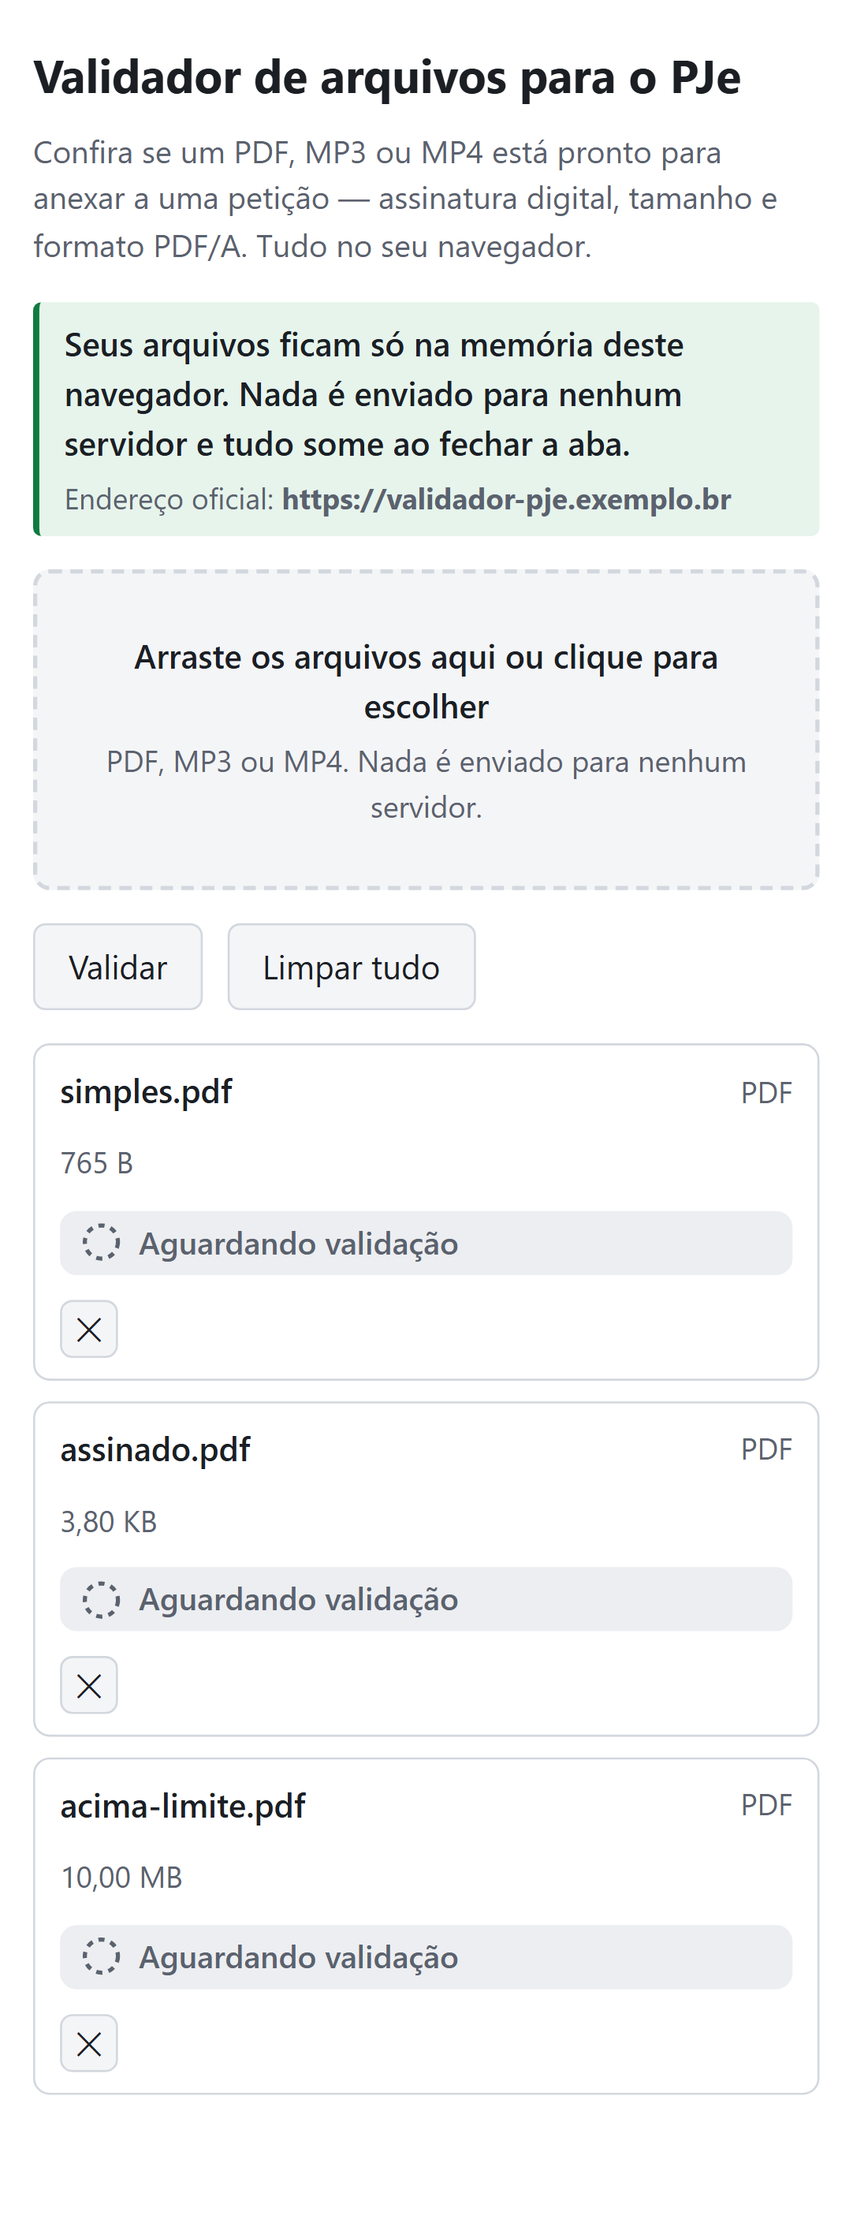
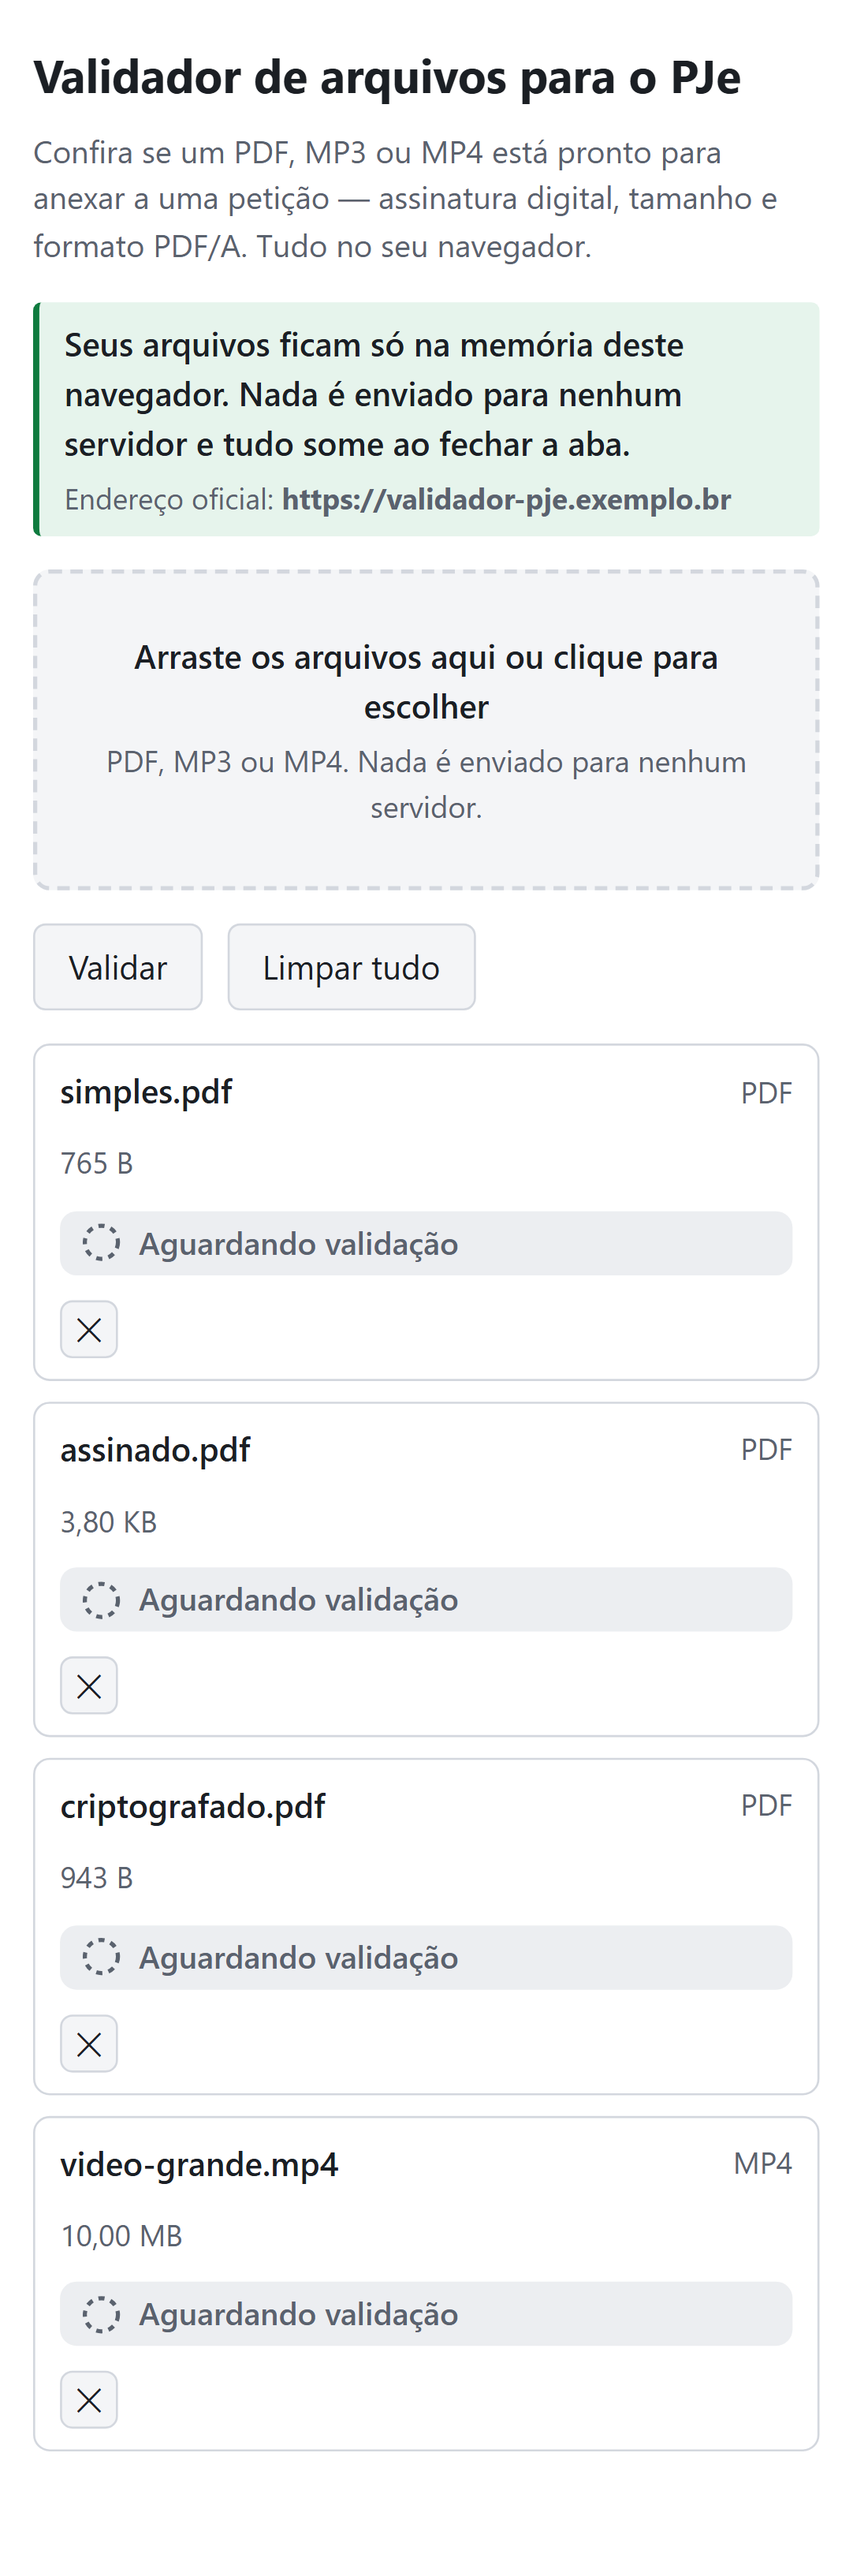
feat(fase2): e2e da correção + mídia sem correção automática
- correcao/ganchoE2E.ts: motor falso ativado só com ?e2e=1 (Playwright exercita
  o fluxo "corrigido" sem WASM); nunca em produção
- Regra 2: MP3/MP4 acima do limite -> correcaoDisponivel null, só orientação
  textual (decisão P2-1); PDF continua com COMPRIMIR_PDF
- tests/e2e/correcao.spec.ts: corrigido / correcao_falhou / nao_corrigivel /
  sem terceiros (5 testes x 4 projetos)
- evidencias.spec.ts: + screenshots corrigido e estados de falha
- 49 e2e passando; 20 screenshots em docs/evidencias/

diff --git a/tests/e2e/evidencias.spec.ts b/tests/e2e/evidencias.spec.ts
@@ -7,34 +7,55 @@ const fx = (n: string) => join(raiz, 'fixtures', n);
 const destino = (n: string) => join(raiz, 'docs', 'evidencias', n);
 
 /**
- * Captura os estados de linha alcançáveis na Fase 1 (aguardando, validando,
- * apto, inapto) em desktop/mobile × claro/escuro. Só fixtures sintéticas.
+ * Captura todos os estados de linha alcançáveis (spec §1.4), em
+ * desktop/mobile × claro/escuro. Só fixtures sintéticas.
  */
 test('screenshots dos estados da linha', async ({ page }, testInfo) => {
-  const sufixo = testInfo.project.name; // desktop-claro, mobile-escuro, ...
+  const sufixo = testInfo.project.name;
 
-  await page.goto('/');
+  await page.goto('/?e2e=1');
   await page.screenshot({ path: destino(`tela-inicial-${sufixo}.png`), fullPage: true });
 
   await page.getByLabel(/selecionar arquivos/i).setInputFiles([
     fx('simples.pdf'),
     fx('assinado.pdf'),
-    fx('acima-limite.pdf'),
+    fx('criptografado.pdf'),
+    fx('video-grande.mp4'),
   ]);
   await page.screenshot({ path: destino(`aguardando-${sufixo}.png`), fullPage: true });
 
   await page.getByRole('button', { name: /^validar$/i }).click();
   await page.getByText('Pronto para anexar ao PJe').waitFor();
   await page.screenshot({ path: destino(`validado-${sufixo}.png`), fullPage: true });
+
+  // corrigido (motor de teste via ?e2e=1)
+  await page
+    .getByRole('listitem', { name: 'assinado.pdf' })
+    .getByRole('button', { name: /tentar corrigir/i })
+    .click();
+  await page.getByText('Corrigido — revalidado com sucesso').waitFor({ timeout: 15_000 });
+  await page.screenshot({ path: destino(`corrigido-${sufixo}.png`), fullPage: true });
+
+  // estados de falha, SEM motor: correcao_falhou (assinado) + nao_corrigivel (cripto)
+  await page.goto('/');
+  await page.getByLabel(/selecionar arquivos/i).setInputFiles([fx('assinado.pdf'), fx('criptografado.pdf')]);
+  await page.getByRole('button', { name: /^validar$/i }).click();
+  const linhaFalha = page.getByRole('listitem', { name: 'assinado.pdf' });
+  await linhaFalha.getByRole('button', { name: /tentar corrigir/i }).click();
+  await linhaFalha.getByText('Não foi possível corrigir automaticamente').waitFor({ timeout: 15_000 });
+  await page.screenshot({ path: destino(`estados-correcao-${sufixo}.png`), fullPage: true });
 });
 
 test('gravação do ciclo completo (desktop claro)', async ({ page }, testInfo) => {
   test.skip(testInfo.project.name !== 'desktop-claro', 'grava só uma vez');
-  await page.goto('/');
+  await page.goto('/?e2e=1');
   await page.getByLabel(/selecionar arquivos/i).setInputFiles([fx('assinado.pdf')]);
   await page.getByRole('button', { name: /^validar$/i }).click();
-  await page.getByText(/contém 1 assinatura digital/i).first().waitFor();
-  await page.getByText(/remova a assinatura reimprimindo/i).waitFor();
+  const linha = page.getByRole('listitem', { name: 'assinado.pdf' });
+  await linha.getByText(/contém 1 assinatura digital/i).first().waitFor();
+  await linha.getByRole('button', { name: /tentar corrigir/i }).click();
+  await linha.getByText('Corrigido — revalidado com sucesso').waitFor({ timeout: 15_000 });
+  await linha.getByRole('link', { name: /baixar arquivo corrigido/i }).waitFor();
   await page.getByRole('button', { name: /limpar tudo/i }).click();
   await page.getByRole('listitem').waitFor({ state: 'detached' }).catch(() => {});
 });

diff --git a/tests/e2e/correcao.spec.ts b/tests/e2e/correcao.spec.ts
@@ -1,0 +1,67 @@
+import { test, expect } from '@playwright/test';
+import { fileURLToPath } from 'node:url';
+import { dirname, join } from 'node:path';
+
+const fixtures = join(dirname(fileURLToPath(import.meta.url)), '..', '..', 'fixtures');
+const fx = (n: string) => join(fixtures, n);
+
+async function validar(page: import('@playwright/test').Page, arquivo: string, query = '') {
+  await page.goto(`/${query}`);
+  await page.getByLabel(/selecionar arquivos/i).setInputFiles(fx(arquivo));
+  await page.getByRole('button', { name: /^validar$/i }).click();
+}
+
+test('assinado → Tentar corrigir → corrigido, com download (motor de teste)', async ({ page }) => {
+  await validar(page, 'assinado.pdf', '?e2e=1');
+  const linha = page.getByRole('listitem', { name: 'assinado.pdf' });
+  await linha.getByRole('button', { name: /tentar corrigir/i }).click();
+
+  await expect(linha.getByText('Corrigido — revalidado com sucesso')).toBeVisible({ timeout: 15_000 });
+  await expect(linha.getByRole('link', { name: /baixar arquivo corrigido/i })).toHaveAttribute(
+    'download',
+    'assinado-corrigido.pdf',
+  );
+  await expect(linha.getByRole('button', { name: /baixar original/i })).toBeVisible();
+  // aviso legal apareceu na 1a correção
+  await expect(page.getByText(/documento novo/i)).toBeVisible();
+});
+
+test('sem motor real: Tentar corrigir → correcao_falhou + orientação manual', async ({ page }) => {
+  await validar(page, 'assinado.pdf'); // sem ?e2e
+  const linha = page.getByRole('listitem', { name: 'assinado.pdf' });
+  await linha.getByRole('button', { name: /tentar corrigir/i }).click();
+
+  await expect(linha.getByText('Não foi possível corrigir automaticamente')).toBeVisible({
+    timeout: 15_000,
+  });
+  await expect(linha.getByText(/remova a assinatura reimprimindo|reimprima o pdf/i)).toBeVisible();
+});
+
+test('PDF criptografado → nao_corrigivel, sem botão corrigir', async ({ page }) => {
+  await validar(page, 'criptografado.pdf');
+  const linha = page.getByRole('listitem', { name: 'criptografado.pdf' });
+  await expect(linha.getByText(/protegido por senha/i).first()).toBeVisible();
+  await expect(linha.getByRole('button', { name: /tentar corrigir/i })).toHaveCount(0);
+});
+
+test('MP4 acima do limite → sem correção automática, só orientação (decisão P2-1)', async ({ page }) => {
+  await validar(page, 'video-grande.mp4');
+  const linha = page.getByRole('listitem', { name: 'video-grande.mp4' });
+  await expect(linha.getByText(/bitrate menor/i).first()).toBeVisible();
+  await expect(linha.getByRole('button', { name: /tentar corrigir/i })).toHaveCount(0);
+});
+
+test('nenhuma requisição a terceiros durante um ciclo de correção', async ({ page }) => {
+  const externas: string[] = [];
+  page.on('request', (r) => {
+    const h = new URL(r.url()).host;
+    if (h !== 'localhost:4174') externas.push(r.url());
+  });
+  await validar(page, 'assinado.pdf', '?e2e=1');
+  await page
+    .getByRole('listitem', { name: 'assinado.pdf' })
+    .getByRole('button', { name: /tentar corrigir/i })
+    .click();
+  await expect(page.getByText('Corrigido — revalidado com sucesso')).toBeVisible({ timeout: 15_000 });
+  expect(externas).toEqual([]);
+});

diff --git a/src/validadores/tamanho.ts b/src/validadores/tamanho.ts
@@ -8,8 +8,9 @@ export function validarTamanho(ctx: ContextoArquivo): Ocorrencia[] {
   if (ctx.tamanhoBytes <= LIMITES.TAMANHO_MAX_BYTES) return [];
 
   const excedente = ctx.tamanhoBytes - LIMITES.TAMANHO_MAX_BYTES;
-  const correcao: EstrategiaCorrecao =
-    ctx.tipo === 'application/pdf' ? 'COMPRIMIR_PDF' : 'RECODIFICAR_MIDIA';
+  // PDF: compressão automática. MP3/MP4: só orientação textual (decisão P2-1).
+  const ehPdf = ctx.tipo === 'application/pdf';
+  const correcao: EstrategiaCorrecao | null = ehPdf ? 'COMPRIMIR_PDF' : null;
 
   return [
     {
@@ -17,10 +18,9 @@ export function validarTamanho(ctx: ContextoArquivo): Ocorrencia[] {
       gravidade: 'erro',
       mensagem: `O arquivo tem ${formatarTamanho(ctx.tamanhoBytes)} — ${formatarTamanho(excedente)} acima do limite de ${formatarTamanho(LIMITES.TAMANHO_MAX_BYTES)}.`,
       detalheTecnico: `${ctx.tamanhoBytes} bytes; limite ${LIMITES.TAMANHO_MAX_BYTES} bytes; excedente ${excedente} bytes`,
-      orientacao:
-        correcao === 'COMPRIMIR_PDF'
-          ? 'A correção automática comprime o PDF por tentativas até caber no limite.'
-          : 'A correção automática recodifica a mídia com bitrate menor até caber no limite.',
+      orientacao: ehPdf
+        ? 'A correção automática comprime o PDF por tentativas até caber no limite.'
+        : 'Reduza a duração ou recodifique com bitrate menor no seu editor. A recodificação automática de mídia não está disponível nesta versão.',
       correcaoDisponivel: correcao,
     },
   ];

diff --git a/src/correcao/ganchoE2E.ts b/src/correcao/ganchoE2E.ts
@@ -1,0 +1,30 @@
+import type { MotorPdf } from './motor';
+
+/**
+ * Motor de correção FALSO para o Playwright (ativado só com `?e2e=1` na URL,
+ * ver `corrigirArquivo`). Reescreve o PDF removendo a camada de assinatura e
+ * preservando o texto — suficiente para exercitar o fluxo "corrigido" de ponta
+ * a ponta sem um build de Ghostscript-WASM. NUNCA é usado sem o flag.
+ */
+export const motorFalsoE2E: MotorPdf = {
+  async executar(entrada) {
+    let s = Array.from(entrada, (b) => String.fromCharCode(b)).join('');
+    s = s
+      .replace(/\/SigFlags\s+\d+/g, '/SigFlags 0')
+      .replace(/\/ByteRange\s*\[[^\]]*\]/g, '')
+      .replace(/\/Contents\s*<[0-9A-Fa-f\s]*>/g, '')
+      .replace(/\/FT\s*\/Sig/g, '/FT /Tx')
+      .replace(/\/AcroForm[^R]*R/g, '')
+      .replace(/\/Perms[^>]*>>/g, '');
+    const bytes = new Uint8Array(Array.from(s, (c) => c.charCodeAt(0) & 0xff));
+    return { codigo: 0, bytes, log: 'motor de teste e2e' };
+  },
+};
+
+export function e2eAtivo(): boolean {
+  try {
+    return typeof location !== 'undefined' && new URLSearchParams(location.search).has('e2e');
+  } catch {
+    return false;
+  }
+}

diff --git a/src/correcao/corrigirArquivo.ts b/src/correcao/corrigirArquivo.ts
@@ -4,6 +4,7 @@ import type { ConfigValidacao } from '../validadores/contexto';
 import { LIMITES } from '../config/limites';
 import { executarComTimeout, TIMEOUT } from './executarComTimeout';
 import type { ParaCorrecao, DaCorrecao } from './protocoloCorrecao';
+import { e2eAtivo } from './ganchoE2E';
 
 /**
  * Entrypoint de correção, desacoplado do motor e da UI (spec §15).
@@ -119,9 +120,14 @@ export async function corrigirArquivo(params: {
         bufferCorrigido: null,
       });
 
-    const msg: ParaCorrecao = config
-      ? { tipo: 'corrigir', nomeArquivo, buffer: bytes, ocorrencias, config }
-      : { tipo: 'corrigir', nomeArquivo, buffer: bytes, ocorrencias };
+    const msg: ParaCorrecao = {
+      tipo: 'corrigir',
+      nomeArquivo,
+      buffer: bytes,
+      ocorrencias,
+      ...(config ? { config } : {}),
+      ...(e2eAtivo() ? { e2e: true } : {}),
+    };
     worker.postMessage(msg, [bytes]);
   });
 

diff --git a/src/workers/correcao.worker.ts b/src/workers/correcao.worker.ts
@@ -1,6 +1,12 @@
 import type { ParaCorrecao, DaCorrecao } from '../correcao/protocoloCorrecao';
-import { carregarMotor, motorJaCarregado, MotorIndisponivel } from '../correcao/motor';
+import {
+  carregarMotor,
+  motorJaCarregado,
+  MotorIndisponivel,
+  __setMotorParaTeste,
+} from '../correcao/motor';
 import { corrigirPdf } from '../correcao/corrigirPdf';
+import { motorFalsoE2E } from '../correcao/ganchoE2E';
 
 /**
  * Handler de correção. Roda dentro de `pdf.worker.ts` (worker único), um por
@@ -13,6 +19,7 @@ export async function processarCorrecao(
   responder: (m: DaCorrecao) => void,
 ): Promise<void> {
   try {
+    if (msg.e2e) __setMotorParaTeste(motorFalsoE2E);
     if (!motorJaCarregado()) responder({ tipo: 'etapa', mensagem: 'Carregando o motor de correção…' });
 
     let motor;

diff --git a/src/validadores/tamanho.test.ts b/src/validadores/tamanho.test.ts
@@ -25,7 +25,8 @@ test('um byte acima -> TAMANHO_EXCEDIDO erro, com excedente no detalhe', () => {
   expect(o[0]!.correcaoDisponivel).toBe('COMPRIMIR_PDF');
 });
 
-test('MP4 grande -> correção RECODIFICAR_MIDIA', () => {
+test('MP4 grande -> sem correção automática (só orientação, decisão P2-1)', () => {
   const o = validarTamanho(ctxFake(50 * 1024 * 1024, 'video/mp4'));
-  expect(o[0]!.correcaoDisponivel).toBe('RECODIFICAR_MIDIA');
+  expect(o[0]!.correcaoDisponivel).toBeNull();
+  expect(o[0]!.orientacao).toMatch(/bitrate menor/i);
 });

diff --git a/src/validadores/validarArquivo.test.ts b/src/validadores/validarArquivo.test.ts
@@ -69,7 +69,7 @@ describe('spec §14.1', () => {
   test('MP4 grande -> reprovado só por tamanho', async () => {
     const r = await val('video-grande.mp4');
     expect(cod(r)).toEqual(['TAMANHO_EXCEDIDO']);
-    expect(r.ocorrencias[0]!.correcaoDisponivel).toBe('RECODIFICAR_MIDIA');
+    expect(r.ocorrencias[0]!.correcaoDisponivel).toBeNull();
   });
 
   test('PDF/A-1b -> apto, pdfaParte 1, conformidade B, sem ocorrências', async () => {

diff --git a/src/correcao/protocoloCorrecao.ts b/src/correcao/protocoloCorrecao.ts
@@ -7,6 +7,8 @@ export type ParaCorrecao = {
   buffer: ArrayBuffer;
   ocorrencias: Ocorrencia[];
   config?: ConfigValidacao;
+  /** `?e2e=1`: usar o motor falso do Playwright (nunca em produção). */
+  e2e?: boolean;
 };
 
 export type DaCorrecao =
